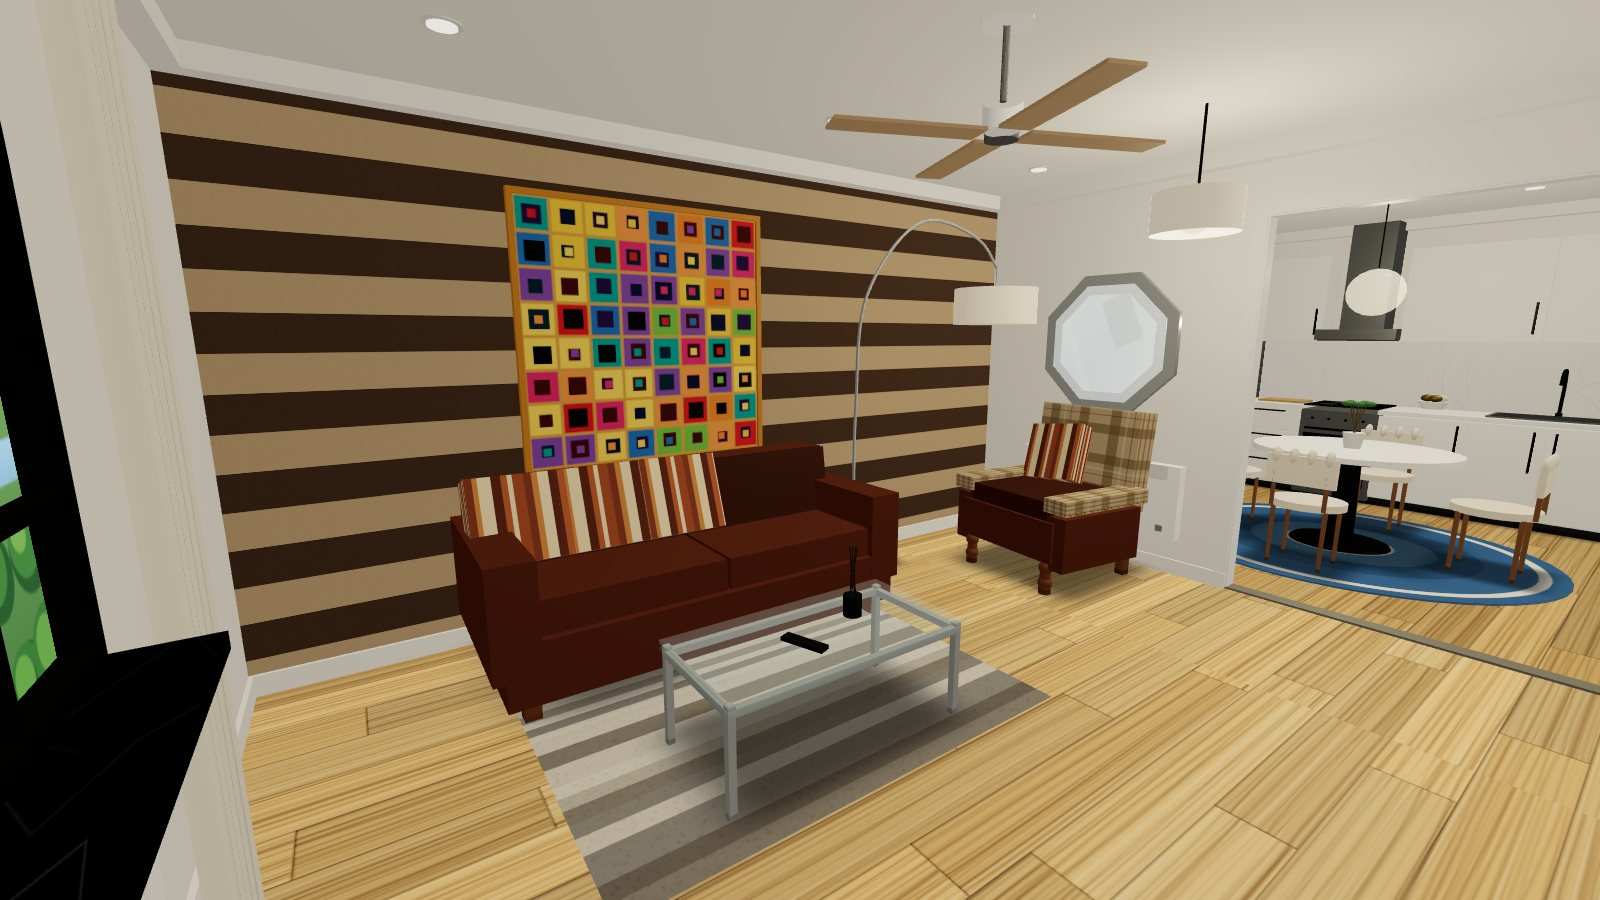
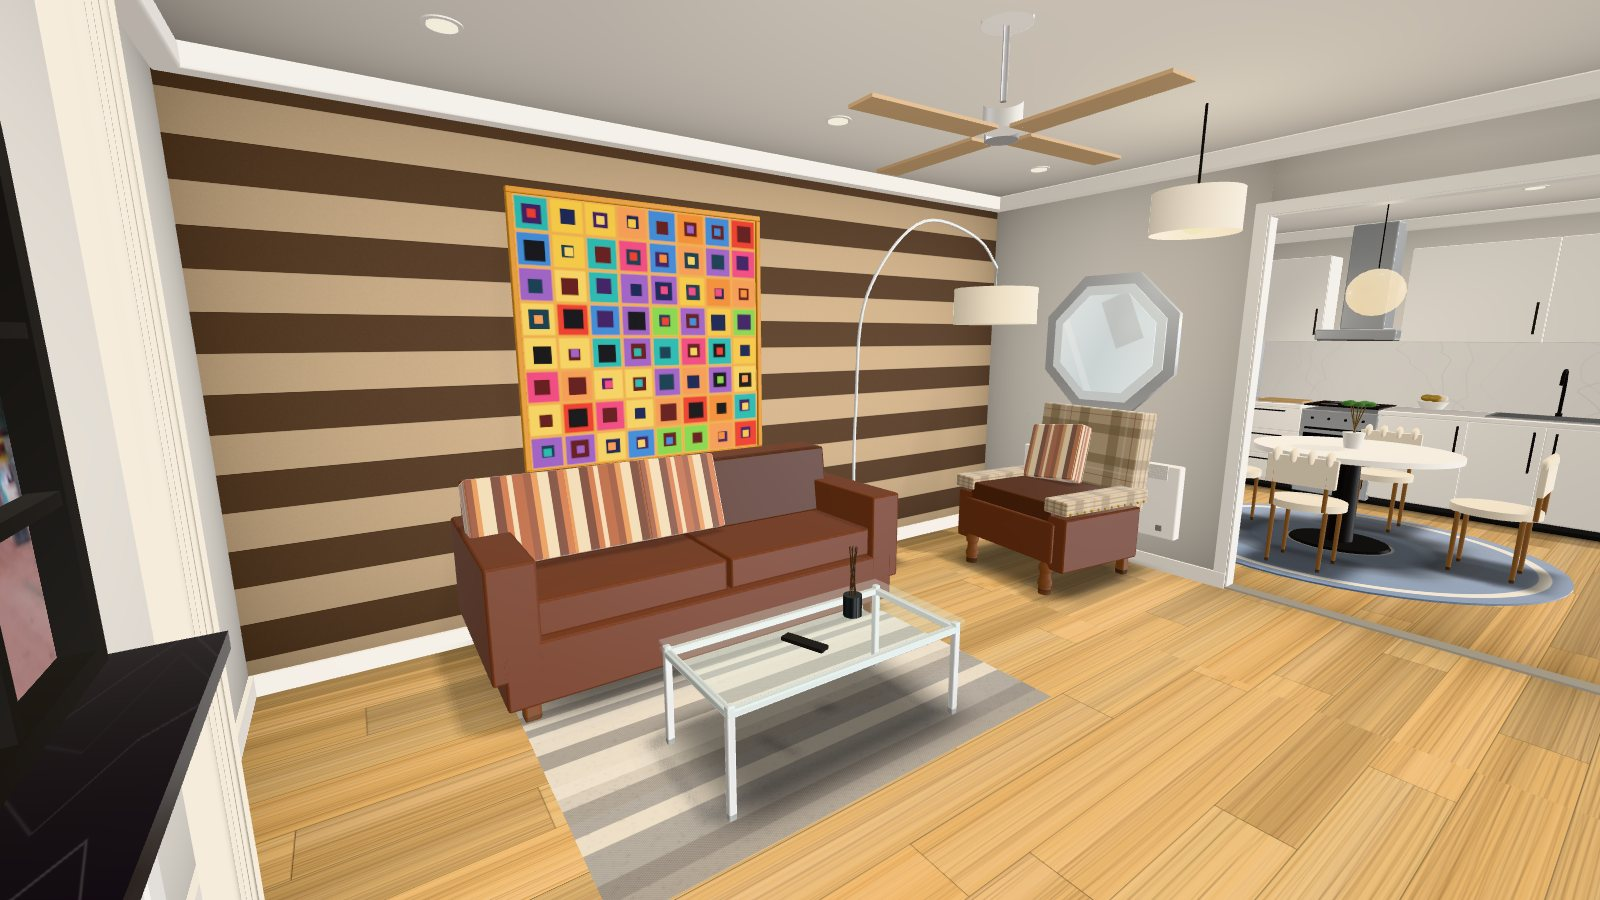
Finer wood floors, lamp logic, new landing renders, asset docs
- Plank floors at twice the resolution with soft colour bands and
  finer grain (js/textures.js)
- Daytime: ceiling lamps off in rooms with a window (the window light
  takes over), on in the hallway and bathroom; evening: window light
  off, all lamps on. Same number of lights as before, so VR stays fast
- Landing page pictures re-rendered with the new lighting
- ASSETS.md (four CC0 Poly Haven panoramas), README, AI_LOG
- tools/make_realism_assets.py rebuilds img/env and img/views

Claude-Session: https://claude.ai/code/session_01M5FxfWsLYudL8mpi87A5eF

diff --git a/FINAL_241487_Amangeldyyeva/js/textures.js b/FINAL_241487_Amangeldyyeva/js/textures.js
@@ -306,7 +306,14 @@
             var lh = rowH / lanes;
             var lshade = lanes > 1 ? 0.94 + grainR() * 0.12 : 1;
             if (lanes > 1) { ctx.fillStyle = css(c, lshade); ctx.fillRect(x, ly, plankW, lh); }
-            woodGrain(ctx, x, ly, plankW, lh, grainR, true, o.grain, 0.20);
+            // soft lengthwise colour bands (real boards are never one flat colour), then fine grain
+            for (var bnd = 0; bnd < 4; bnd++) {
+              var bh = lh * (0.15 + grainR() * 0.3), by = ly + grainR() * (lh - bh);
+              ctx.fillStyle = grainR() < 0.5 ? 'rgba(60,35,15,' + (0.03 + grainR() * 0.05).toFixed(3) + ')'
+                                             : 'rgba(255,245,225,' + (0.03 + grainR() * 0.05).toFixed(3) + ')';
+              ctx.fillRect(x, by, plankW, bh);
+            }
+            woodGrain(ctx, x, ly, plankW, lh, grainR, true, o.grain, 0.12);
             if (ln > 0) { ctx.fillStyle = 'rgba(0,0,0,0.18)'; ctx.fillRect(x, ly, plankW, 1); }
           }
           // joints (darker lines) and a light bevel edge
@@ -496,14 +503,14 @@
     microcement: { tileW: 1.2, tileH: 1.2, px: [512, 512], bump: 0.6, draw: function (c, W, H, hex) { drawCloudy(c, W, H, hex, 0.28); } },
     slats: { tileW: 0.405, tileH: 0.5, px: [405, 500], bump: 1.6, draw: drawSlats },
 
-    laminate: { tileW: 2.4, tileH: 1.14, px: [600, 285], bump: 0.7,
-      draw: function (c, W, H, hex) { drawPlanks(c, W, H, hex, { rows: 6, grain: 38, gap: 0.5, jitter: 0.12, seed: 5 }); } },
-    parquet: { tileW: 3.6, tileH: 1.14, px: [720, 228], bump: 0.7,
-      draw: function (c, W, H, hex) { drawPlanks(c, W, H, hex, { rows: 6, lanes: 3, grain: 12, gap: 0.3, jitter: 0.1, seed: 21 }); } },
-    engineered: { tileW: 3.8, tileH: 1.44, px: [760, 288], bump: 0.5,
-      draw: function (c, W, H, hex) { drawPlanks(c, W, H, hex, { rows: 6, grain: 46, gap: 0.2, jitter: 0.16, seed: 8 }); } },
-    spc: { tileW: 2.44, tileH: 1.08, px: [610, 270], bump: 0.4,
-      draw: function (c, W, H, hex) { drawPlanks(c, W, H, hex, { rows: 6, grain: 22, gap: 0.6, jitter: 0.08, seed: 14 }); } },
+    laminate: { tileW: 2.4, tileH: 1.14, px: [1200, 570], bump: 0.7,
+      draw: function (c, W, H, hex) { drawPlanks(c, W, H, hex, { rows: 6, grain: 70, gap: 0.45, jitter: 0.1, seed: 5 }); } },
+    parquet: { tileW: 3.6, tileH: 1.14, px: [1440, 456], bump: 0.7,
+      draw: function (c, W, H, hex) { drawPlanks(c, W, H, hex, { rows: 6, lanes: 3, grain: 22, gap: 0.3, jitter: 0.1, seed: 21 }); } },
+    engineered: { tileW: 3.8, tileH: 1.44, px: [1520, 576], bump: 0.5,
+      draw: function (c, W, H, hex) { drawPlanks(c, W, H, hex, { rows: 6, grain: 84, gap: 0.2, jitter: 0.14, seed: 8 }); } },
+    spc: { tileW: 2.44, tileH: 1.08, px: [1220, 540], bump: 0.4,
+      draw: function (c, W, H, hex) { drawPlanks(c, W, H, hex, { rows: 6, grain: 40, gap: 0.55, jitter: 0.08, seed: 14 }); } },
     herringbone: { tileW: 0.56, tileH: 0.56, px: [448, 448], bump: 0.7, draw: drawHerringbone },
     tile: { tileW: 1.2, tileH: 1.2, px: [480, 480], bump: 0.6, draw: drawTile },
     marble: { tileW: 1.6, tileH: 1.6, px: [512, 512], bump: 0.1, draw: drawMarble },

diff --git a/FINAL_241487_Amangeldyyeva/js/apartment.js b/FINAL_241487_Amangeldyyeva/js/apartment.js
@@ -146,10 +146,14 @@
           width: w, height: d, position: cx + ' ' + H + ' ' + cz, rotation: '90 0 0'
         }, el);
 
-        // one ceiling light per room (its position is in the plan); the evening/day switch changes it
+        // one ceiling light per room (its position is in the plan); the evening/day switch changes it.
+        // In daylight the lamp is off in a room with a window (the light comes from the window, js/windowview.js)
+        // and on in a room without one (hallway, bathroom), as in a real flat; fewer lights also keep VR fast.
+        var hasWindow = P.WINDOWS.some(function (w) { return w.room === r.id; });
         ent('a-entity', {
-          id: 'l-' + r.id, class: 'room-light',
-          light: 'type: point; color: #fff2cf; intensity: 0.35; distance: 6; decay: 1',
+          id: 'l-' + r.id, class: 'room-light' + (hasWindow ? ' has-window' : ''),
+          light: 'type: point; color: #fff2cf; intensity: 0.5; distance: 6; decay: 1',
+          visible: hasWindow ? 'false' : 'true',
           position: r.lamp[0] + ' ' + r.lamp[1] + ' ' + r.lamp[2]
         }, el);
       });

diff --git a/FINAL_241487_Amangeldyyeva/js/configurator.js b/FINAL_241487_Amangeldyyeva/js/configurator.js
@@ -407,7 +407,9 @@
       // every room has its own ceiling light (class room-light, made by apartment.js)
       var lamps = document.querySelectorAll('.room-light');
       for (var i = 0; i < lamps.length; i++) {
-        lamps[i].setAttribute('light', mode === 'evening' ? { color: '#ffc27a', intensity: 2.2 } : { color: '#fff2cf', intensity: 0.35 });
+        lamps[i].setAttribute('light', mode === 'evening' ? { color: '#ffc27a', intensity: 2.2 } : { color: '#fff2cf', intensity: 0.5 });
+        // daytime: lamps are off where a window lights the room (see js/apartment.js)
+        lamps[i].setAttribute('visible', mode === 'evening' || !lamps[i].classList.contains('has-window'));
       }
       this.applyWindow();
       this.renderPanel();

diff --git a/FINAL_241487_Amangeldyyeva/js/windowview.js b/FINAL_241487_Amangeldyyeva/js/windowview.js
@@ -527,7 +527,7 @@
         if (!this.cache[key]) this.cache[key] = srgb(new T.CanvasTexture(makeCanvas(view, light)));
         this.tex = this.cache[key];
       }
-      if (this.sun) this.sun.intensity = light === 'evening' ? 0 : WINDOW_LIGHT;
+      if (this.sun) { this.sun.intensity = WINDOW_LIGHT; this.sun.visible = light !== 'evening'; } // no daylight at night
       if (this.viewMat.map !== this.tex) {
         this.viewMat.map = this.tex;
         this.viewMat.needsUpdate = true;

diff --git a/FINAL_241487_Amangeldyyeva/tools/make_realism_assets.py b/FINAL_241487_Amangeldyyeva/tools/make_realism_assets.py
@@ -1,0 +1,113 @@
+"""Build the realism assets from CC0 Poly Haven HDRIs (see ASSETS.md).
+  python3 tools/make_realism_assets.py <folder with the .hdr files> img
+Needs Python 3 with numpy and Pillow.
+Writes env/apartment-512.hdr (flat RGBE, for image-based lighting) and views/<view>-<light>.jpg
+(window views: a rectilinear "photo" cut out of each panorama)."""
+import sys, os, numpy as np
+from PIL import Image, ImageFilter
+
+def read_hdr(path):
+    data = open(path, 'rb').read()
+    i = 0
+    while True:
+        j = data.index(b'\n', i); line = data[i:j]; i = j + 1
+        if line.startswith(b'-Y') or line.startswith(b'+Y'):
+            parts = line.split(); H = int(parts[1]); W = int(parts[3]); break
+    out = np.zeros((H, W, 4), np.uint8)
+    for y in range(H):
+        if data[i] == 2 and data[i+1] == 2:
+            i += 4
+            for c in range(4):
+                x = 0
+                while x < W:
+                    n = data[i]; i += 1
+                    if n > 128:
+                        n -= 128; out[y, x:x+n, c] = data[i]; i += 1
+                    else:
+                        out[y, x:x+n, c] = np.frombuffer(data[i:i+n], np.uint8); i += n
+                    x += n
+        else:
+            out[y] = np.frombuffer(data[i:i+W*4], np.uint8).reshape(W, 4); i += W*4
+    e = out[..., 3].astype(np.float32)
+    scale = np.where(e > 0, np.ldexp(1.0, (e - 136).astype(np.int32)), 0)
+    return out[..., :3].astype(np.float32) * scale[..., None]
+
+def tonemap(rgb, exposure=1.0):
+    x = rgb * exposure
+    # ACES-like filmic curve (Narkowicz), then sRGB gamma
+    a, b, c, d, e = 2.51, 0.03, 2.43, 0.59, 0.14
+    y = np.clip((x*(a*x+b))/(x*(c*x+d)+e), 0, 1)
+    return (np.where(y <= 0.0031308, 12.92*y, 1.055*np.power(y, 1/2.4) - 0.055) * 255).astype(np.uint8)
+
+
+def write_hdr_flat(path, rgb):
+    H, W, _ = rgb.shape
+    m = rgb.max(axis=2)
+    e = np.zeros((H, W), np.int32); mant = np.zeros((H, W), np.float64)
+    nz = m > 1e-32
+    mant[nz], e[nz] = np.frexp(m[nz])
+    out = np.zeros((H, W, 4), np.uint8)
+    sc = np.where(nz, mant * 256.0 / np.where(nz, m, 1), 0)
+    out[..., :3] = np.clip(rgb * sc[..., None], 0, 255).astype(np.uint8)
+    out[..., 3] = np.where(nz, e + 128, 0).astype(np.uint8)
+    with open(path, 'wb') as f:
+        f.write(b'#?RADIANCE\nFORMAT=32-bit_rle_rgbe\n\n-Y %d +X %d\n' % (H, W))
+        f.write(out.tobytes())
+
+def downsample(rgb, f):
+    H, W, _ = rgb.shape
+    return rgb[:H//f*f, :W//f*f].reshape(H//f, f, W//f, f, 3).mean(axis=(1, 3))
+
+def bilinear(img, u, v):
+    H, W, _ = img.shape
+    x = (u % 1.0) * W - 0.5; y = np.clip(v * H - 0.5, 0, H - 1)
+    x0 = np.floor(x).astype(int); y0 = np.floor(y).astype(int)
+    fx = (x - x0)[..., None]; fy = (y - y0)[..., None]
+    x0m = x0 % W; x1 = (x0 + 1) % W; y1 = np.clip(y0 + 1, 0, H - 1)
+    return (img[y0, x0m]*(1-fx)*(1-fy) + img[y0, x1]*fx*(1-fy) + img[y1, x0m]*(1-fx)*fy + img[y1, x1]*fx*fy)
+
+def view(rgb, yaw_u, pitch_deg, hfov_deg, W, H):
+    """Rectilinear view. yaw_u = centre as a fraction of the panorama width."""
+    t = np.tan(np.radians(hfov_deg) / 2)
+    xs = (np.arange(W) + 0.5) / W * 2 - 1
+    ys = 1 - (np.arange(H) + 0.5) / H * 2
+    X, Y = np.meshgrid(xs * t, ys * t * H / W)
+    Z = np.ones_like(X)
+    p = np.radians(pitch_deg)
+    Y2 = Y * np.cos(p) + Z * np.sin(p); Z2 = -Y * np.sin(p) + Z * np.cos(p)
+    lon = np.arctan2(X, Z2); lat = np.arctan2(Y2, np.hypot(X, Z2))
+    u = yaw_u + lon / (2 * np.pi); v = 0.5 - lat / np.pi
+    return bilinear(rgb, u, v)
+
+def grade_evening(img8, warm_sun=False):
+    a = img8.astype(np.float32) / 255
+    lum = a.mean(axis=2, keepdims=True)
+    blue = np.array([0.55, 0.62, 0.95]) * (0.35 * a + 0.15 * lum)
+    if warm_sun:
+        blue = 0.55 * a + 0.05
+    return (np.clip(blue, 0, 1) * 255).astype(np.uint8)
+
+if __name__ == '__main__':
+    src, out = sys.argv[1], sys.argv[2]
+    os.makedirs(out + '/env', exist_ok=True); os.makedirs(out + '/views', exist_ok=True)
+    env = downsample(read_hdr(src + '/lebombo_1k.hdr'), 2)
+    # Keep only a little of the panorama's colour: its wooden floor would tint every white wall beige,
+    # and a finish configurator must show colours faithfully.
+    lum = (env * np.array([0.2126, 0.7152, 0.0722])).sum(axis=2, keepdims=True)
+    env = lum * 0.8 + env * 0.2
+    write_hdr_flat(out + '/env/apartment-512.hdr', env)
+    SPEC = {  # view: (file, centre, pitch, hfov, exposure)
+        'city':   ('potsdamer_platz_1k.hdr', 0.64, 17, 76, 1.25),
+        'sea':    ('venice_sunset_1k.hdr',   0.50, 7, 76, 0.95),
+        'garden': ('rooitou_park_1k.hdr',    0.32, 14, 76, 1.3),
+    }
+    W, H = 640, 768   # same shape as the glass (1.3 m x 1.52 m)
+    for name, (f, cu, pitch, fov, ex) in SPEC.items():
+        rgb = read_hdr(src + '/' + f)
+        v = view(rgb, cu, pitch, fov, W, H)
+        day = tonemap(v, ex)
+        im = Image.fromarray(day).filter(ImageFilter.UnsharpMask(radius=2, percent=60, threshold=2))
+        im.save(f'{out}/views/{name}-day.jpg', quality=84)
+        eve = tonemap(v, ex * (0.6 if name == 'sea' else 0.45))
+        Image.fromarray(grade_evening(eve, warm_sun=(name == 'sea'))).save(f'{out}/views/{name}-evening.jpg', quality=84)
+    print('ok')

diff --git a/FINAL_241487_Amangeldyyeva/README.md b/FINAL_241487_Amangeldyyeva/README.md
@@ -129,7 +129,7 @@ no image files and no licence issues. Texture tiles have real-world sizes (a bri
 | Five-room apartment you can walk through (floor plan, walls, doors, arch, windows, per-room lights) | `js/plan.js` (data and walking rules, tested), `js/apartment.js` (3D build), `rig-move` in `js/app.js` |
 | Furnished kitchen, bedroom, hallway and bathroom | `js/rooms.js` (component `room-set`) |
 | Remove / restore furniture (click, voice, all at once) | `Kit.Furniture` in `js/kit.js`, voice words in `js/commands.js`, buttons in `js/shop.js` and the panel in `js/configurator.js` |
-| Realistic look | ACES tone mapping (`renderer` in `index.html`), sky/ground light, a light in every room, cornices, contact shadows under furniture (`js/kit.js`), shared textures so changing a finish stays fast |
+| Realistic look (like a photo of a real flat, not a game) | `js/realism.js`: image-based lighting from a CC0 HDR photo of an empty apartment (reflections in floors, tiles and metal), soft furniture shadows (the shadow map is redrawn only when the furniture changes, so it costs nothing while looking around), corner shading in the shader, fabric sheen. `js/windowview.js`: photographic window views and soft daylight through each window. `js/kit.js`: furniture with 1 cm rounded edges and contact shadows. Neutral tone mapping (`renderer` in `index.html`) so finish colours stay true |
 | Tests for parser, catalogue, floor plan | `tests/commands.test.js` (`npm test`; includes "every room can be reached on foot") |
 | Door as a sixth finishable surface | `door` in `js/catalog.js`, door textures in `js/textures.js`, `surface="name: door"` in `index.html` |
 
@@ -143,7 +143,8 @@ no image files and no licence issues. Texture tiles have real-world sizes (a bri
 |---|---|---|
 | `models/fan.glb` (ceiling fan, animation "Spin") | Own work, generated by `tools/make_fan.py` | Own work (use freely) |
 | Room (walls, radiator, door) | Own work from A-Frame primitives | Own work |
-| Arched steel window with curtains, marble sill and the three views (city, sea, garden; day and evening) | Own work, drawn in code in `js/windowview.js` (Three.js shapes and canvas pictures, no image files). Style references seen on the internet were used only as inspiration; nothing from them is in the repository | Own work |
+| Arched steel window with curtains and marble sill | Own work, built in code in `js/windowview.js` | Own work |
+| Window views (city, sea, garden; day and evening) and the lighting panorama (`img/views/`, `img/env/`) | Cut from four Poly Haven panoramas by `tools/make_realism_assets.py`; see [ASSETS.md](ASSETS.md). The older drawn views are kept in `js/windowview.js` as a fallback | CC0 |
 | Living room furniture and decor (sofa, armchair, coffee table, rug, lamps, mirror, painting) | Own work, built from simple Three.js shapes and drawn textures in `js/livingset.js`; modelled on a photo of a real living room used only as a visual reference (the photo is not in the repository) | Own work |
 | Apartment shell, kitchen, bedroom, hallway and bathroom furniture and decor (`js/plan.js`, `js/apartment.js`, `js/rooms.js`) | Own work, built from boxes, cylinders, spheres and drawn textures (including the pictures on the walls). The look follows a set of reference photos of a modern white apartment, used only as visual inspiration; no photo, model or texture from them is in the repository | Own work |
 | `img/hero-living.jpg`, `img/room-*.jpg` (landing page pictures) | Own work: screenshots of this project's own 3D room rendered with each design (made by a headless-browser script, no third-party photos) | Own work |
@@ -152,7 +153,7 @@ no image files and no licence issues. Texture tiles have real-world sizes (a bri
 
 | `vendor/aframe-1.8.0.min.js`, `vendor/aframe-extras-7.7.0.min.js` | A-Frame (aframe.io) and aframe-extras (Don McCurdy), unmodified copies of the pinned releases | MIT (licence files in `vendor/`) |
 
-No AI-generated images. No third-party photos, models or textures.
+No AI-generated images. The only third-party images are the four CC0 panoramas in [ASSETS.md](ASSETS.md); no third-party models or textures.
 
 ## AI service disclosure
 
@@ -163,7 +164,7 @@ No AI-generated images. No third-party photos, models or textures.
 
 ```
 index.html            page, room, landing, top bar, quote and booking dialogs, HUD
-img/                  landing page pictures (renders of the own 3D room)
+img/                  landing page pictures (renders of the own 3D room); env/ lighting panorama; views/ window views (CC0, see ASSETS.md)
 css/shop.css          styles of the landing page, top bar, quote sheet (incl. A4 print) and booking form
 js/shop.js            company layer: design packages, live total, quote with room picture, booking form, furniture toggle
 js/plan.js            floor plan (rooms, doors, arch, windows), walking rules and the areas the price is based on (testable without a browser)
@@ -171,7 +172,8 @@ js/kit.js             helpers for building furniture (Item, merged geometry) and
 js/apartment.js       builds walls, floors, ceilings, doors, cornices, radiator and lights from the plan
 js/livingset.js       living room furniture and decor built from simple shapes and procedural textures (sofa, armchair, glass table, rug, lamps, mirror, painting)
 js/rooms.js           kitchen, bedroom, hallway and bathroom furniture and decor
-js/windowview.js      arched steel windows with curtains and the three views
+js/windowview.js      arched steel windows with curtains, photographic views and daylight through the window
+js/realism.js         realistic lighting: HDR image-based lighting, soft shadows, corner shading, fabric sheen
 js/drawer.js          HTML finishes drawer (material cards with samples and prices)
 js/compare.js         before / after wipe
 js/catalog.js         materials, colours, designs, demo prices, variant code (testable without a browser)
@@ -182,6 +184,8 @@ js/app.js             small A-Frame components (canvas-text, rig-move, panel-fol
 js/configurator.js    surfaces, panel, price, state machine, voice wiring
 models/fan.glb        animated ceiling fan
 tools/make_fan.py     generator of the fan model
+tools/make_realism_assets.py  builds img/env and img/views from the CC0 panoramas
 tests/                catalogue and parser tests
 AI_LOG.md             record of AI use
+ASSETS.md             third-party assets (four CC0 panoramas) and how they were processed
 ```

diff --git a/FINAL_241487_Amangeldyyeva/ASSETS.md b/FINAL_241487_Amangeldyyeva/ASSETS.md
@@ -1,0 +1,23 @@
+# Third-party assets
+
+Everything in this project is own work (code, furniture, textures, the fan model), except the four
+panoramas below. They are used to make the apartment look like a real flat (js/realism.js and
+js/windowview.js).
+
+| File in this repository | Made from | Source and licence | How it is used |
+|---|---|---|---|
+| `img/env/apartment-512.hdr` | "Lebombo", an HDR panorama of an empty apartment | [polyhaven.com/a/lebombo](https://polyhaven.com/a/lebombo), CC0 (public domain) | Image-based lighting: lights every material and appears in reflections. Reduced to 512 x 256 and made almost colourless, so it does not tint the finishes |
+| `img/views/city-day.jpg`, `img/views/city-evening.jpg` | "Potsdamer Platz" | [polyhaven.com/a/potsdamer_platz](https://polyhaven.com/a/potsdamer_platz), CC0 | City view in the windows |
+| `img/views/sea-day.jpg`, `img/views/sea-evening.jpg` | "Venice Sunset" | [polyhaven.com/a/venice_sunset](https://polyhaven.com/a/venice_sunset), CC0 | Sea view in the windows |
+| `img/views/garden-day.jpg`, `img/views/garden-evening.jpg` | "Rooitou Park" | [polyhaven.com/a/rooitou_park](https://polyhaven.com/a/rooitou_park), CC0 | Garden view in the windows |
+
+The 1k versions of the panoramas were taken from the copies in the `pmndrs/drei-assets` repository on
+GitHub (`hdri/*.hdr`), which mirrors these Poly Haven files. The window pictures are rectilinear
+"photographs" cut out of each panorama, and the evening versions are darkened and colour-graded copies.
+All of this is done by `tools/make_realism_assets.py`, so the files can be rebuilt:
+
+```
+python3 tools/make_realism_assets.py <folder with the four .hdr files> img
+```
+
+CC0 needs no attribution; the sources are listed so that anyone can check them.

diff --git a/FINAL_241487_Amangeldyyeva/AI_LOG.md b/FINAL_241487_Amangeldyyeva/AI_LOG.md
@@ -20,6 +20,7 @@ presentation. It is updated as the work goes on.
 | Claude (Anthropic), Claude Sonnet 5.5 | Landing page in a quiet-luxury style with renders of the own room; arched steel window with curtains and marble sill and three code-drawn views (city, sea, garden) for day and evening (`js/windowview.js`), voice words "sea view", "city view", "garden view" and the View button | 18 Nov 2026 |
 | Claude (Anthropic), Claude Sonnet 5.5 | Showroom living room: new wide stripe wallpaper, "Living room" design, procedural furniture and decor (`js/livingset.js`) modelled on a reference photo; README and test updates | 13 and 18 Nov 2026 |
 | Claude (Anthropic), Claude Sonnet 5.5 | Five-room walkable apartment (floor plan, walls, doors, collision), furniture for kitchen, bedroom, hallway and bathroom, removable furniture (click and voice), room navigation (bar, panel, voice), realism pass (tone mapping, contact shadows), fix of the design changing by itself, new tests | 18 Nov 2026 |
+| Claude (Anthropic), Claude Opus 5.5 | Realism pass so the apartment looks like a real flat: image-based lighting from a CC0 HDR panorama, soft shadows, corner shading, fabric sheen (`js/realism.js`); photographic window views and daylight through the windows; rounded furniture edges; finer wood floor textures; neutral tone mapping; new landing pictures; `ASSETS.md` and `tools/make_realism_assets.py` | 20 Nov 2026 |
 
 ## What I did myself
 
